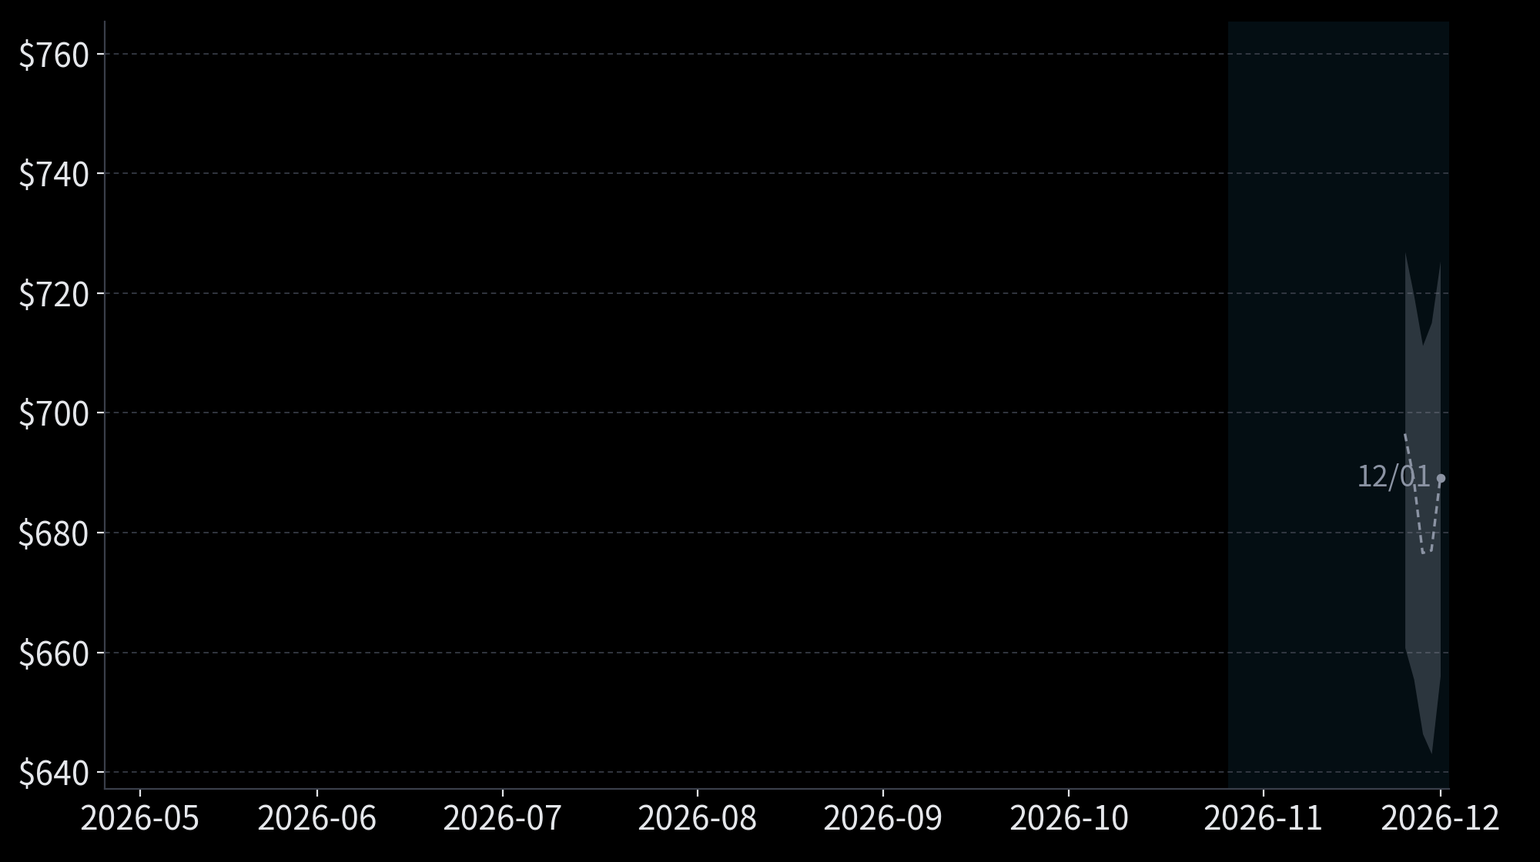
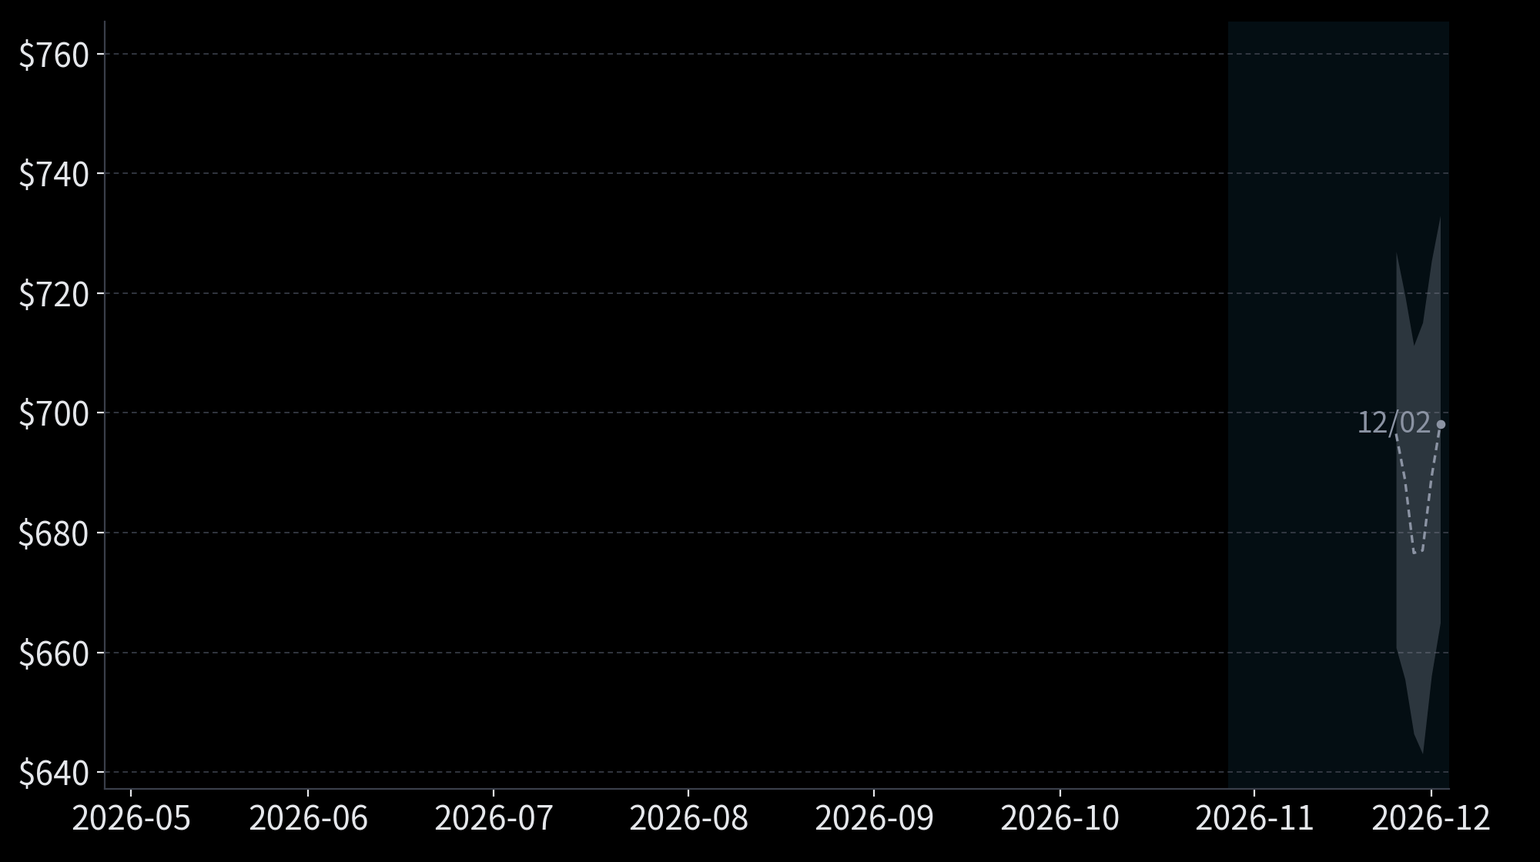
2026-10-29 nasdaq 리포트 공개본

diff --git a/r/20261029-nasdaq/report.html b/r/20261029-nasdaq/report.html
@@ -1,0 +1,116 @@
+<h2 id="1개월-지수-방향-예측">1개월 지수 방향 예측</h2>
+<p><img src="r/20261029-nasdaq/chart-nasdaq.png?v=d43c0dbb70" /></p>
+<p><img src="r/20261029-nasdaq/predict-nasdaq.png?v=1c00ff8d41" /></p>
+<h3 id="현재-상태-투자자는-빅테크-실적에서-클라우드-성장보다-현금-회수를-보고-종목을-골라-사고판다"><mark>현재 상태</mark> 투자자는 빅테크 실적에서 클라우드 성장보다 현금 회수를 보고 종목을 골라 사고판다</h3>
+<p>10월 28일 장 마감 뒤 마이크로소프트와 알파벳이 3분기 실적을 냈고 두 회사의 주가는 반대로 움직였다. 마이크로소프트의 클라우드 서비스 Azure는 매출이 48% 늘었다. 마이크로소프트는 잉여현금흐름도 흑자를 지켰고 시간외 주가는 4% 올랐다. 알파벳의 클라우드 매출은 두 배 넘게 늘었다. 그러나 검색 광고 매출 증가율은 시장 예상보다 낮았고 분기 잉여현금흐름은 적자였다. 경영진이 내년 설비투자를 크게 늘리겠다고 밝히자 알파벳 주가는 시간외에서 10% 넘게 내렸다. 같은 날 연준은 기준금리를 동결했지만 두 위원이 인상을 주장했다. 10년물 국채 수익률은 5%를 넘어 주식의 기대수익보다 높다. 그래서 이익 추정치가 올라도 주가가 크게 오르기는 어렵다.</p>
+<h3 id="주요-분기와-예측-아마존-실적과-선거-뒤-대이란-공격-여부에-따라-이번-달-주가가-달라진다"><mark>주요 분기와 예측</mark> 아마존 실적과 선거 뒤 대이란 공격 여부에 따라 이번 달 주가가 달라진다</h3>
+<p>앞으로 한 달 동안 세 가지 사안이 중요하다. 아마존이 오늘 장 마감 뒤 실적을 발표한다. 아마존 클라우드 사업 AWS의 성장률은 시장 예상과 비슷하게 나올 가능성이 높다. 다만 아마존의 잉여현금흐름 적자가 알파벳처럼 커지면 투자자는 아마존 주식도 판다. 미국이 11월 3일 중간선거 뒤 이란을 공격하는지도 중요하다. 월스트리트저널의 보도에 따르면 미국이 걸프 국가들에 선거 뒤 짧고 강한 작전에 대비하라고 알렸다. AI 데이터센터를 빌려주는 기업의 부채에 대한 불안이 시장 전체로 커지는지도 중요하다. 위험 회사채 시장 전체의 신용 프리미엄이 아직 낮으므로 그럴 가능성은 낮다.</p>
+<h3 id="지수-영향-하락-시나리오의-가능성이-가장-높고-어제보다-하락은-늘고-큰-하락은-줄었다"><mark>지수 영향</mark> 하락 시나리오의 가능성이 가장 높고, 어제보다 하락은 늘고 큰 하락은 줄었다</h3>
+<p>하락 시나리오의 가능성이 가장 높고 횡보 시나리오의 가능성이 그다음으로 높다. 알파벳 실적 때문에 투자자가 주식을 며칠 더 팔고 아마존도 잉여현금흐름 적자를 크게 내면 하락 시나리오의 가능성이 커진다. 반대로 아마존의 클라우드 성장이 현금 부담을 상쇄하면 횡보 시나리오의 가능성이 커진다. 알파벳 하락이 과거 한 기업만의 실적 충격 때처럼 일주일 남짓 뒤 회복되기 때문이다. 선거 뒤 대이란 공격이 재개되면 큰 하락 시나리오의 가능성이 커진다. AI 기업의 부채에 대한 불안이 위험 회사채 시장 전체로 커져도 큰 하락 시나리오의 가능성이 커진다. 어제와 견주면 하락 시나리오의 가능성이 커지고 큰 하락 시나리오의 가능성은 줄었다. 투자자가 어제까지 걱정한 알파벳의 실적 충격은 시간외 가격에 이미 반영됐고, 위험 회사채 시장 전체의 신용 프리미엄도 지난주보다 낮아졌다.</p>
+<h2 id="주요-이슈-해설">주요 이슈 해설</h2>
+<h3 id="1-빅테크-실적과-현금-회수-양방향-중요도-높음">1. 빅테크 실적과 현금 회수 <code>양방향</code> <code>중요도 높음</code></h3>
+<p><mark>현재 상태</mark> 마이크로소프트는 다음 분기 Azure 성장률을 49~50%로 제시해 StreetAccount 집계 시장 예상 45.1%를 넘었다. CNBC에 따르면 마이크로소프트의 잉여현금흐름은 1년 전보다 27% 줄었지만 흑자를 지켰고, 시간외 주가는 4% 올랐다. 알파벳의 클라우드 매출은 103% 늘었다. 그러나 검색 광고 매출 증가율은 12%로 둔화했다. 로이터에 따르면 알파벳 경영진은 검색 광고 둔화를 AI 챗봇 검색의 사용 증가 탓으로 돌렸다. 알파벳은 분기 잉여현금흐름 적자를 냈고 내년 설비투자를 크게 늘리겠다고 밝혔다. 알파벳 주가는 시간외에서 10% 넘게 내렸지만, 같은 날 반도체 ETF는 정규장에서 약 2% 올랐다. 오늘 아침까지 나온 애널리스트 해석도 알파벳 고유의 문제로 보는 쪽이 많았다.</p>
+<p><mark>주요 분기와 예측</mark> 아마존 실적은 시장 예상에 부합할 가능성이 가장 높다. Zacks 집계에 따르면 AWS 매출 성장률 컨센서스는 37.5%다. AWS 성장률이 42%를 넘으면 투자자는 기술주를 산다. 클라우드 매출 증가가 설비투자의 현금 부담을 상쇄한다고 보기 때문이다. 반대로 AWS 성장률이 37%에 못 미치거나 아마존의 잉여현금흐름 적자가 커질 수 있다. 그러면 투자자는 현금을 늦게 회수하는 플랫폼 기업을 함께 판다.</p>
+<p><mark>지수 영향</mark> 알파벳의 시간외 하락은 오늘 아침 가격에 이미 반영됐다. 매도는 며칠 더 이어지다가 멈출 가능성이 높다. 2023년 10월 알파벳이 클라우드 매출 미달 때문에 급락했을 때 나스닥100은 이튿날 가장 많이 내렸고, 8거래일 만에 실적 발표 전 수준을 넘었다. 마이크로소프트의 높은 Azure 성장 지침 덕분에 AI 수요에 대한 우려가 줄어 이번 달 후반에 반등할 가능성은 높아졌다. 다만 메타와 소프트웨어 주식도 알파벳을 따라 내리면 하락이 알파벳 한 회사의 일로 끝나지 않으므로 더 길어진다. 2026년 1월 마이크로소프트 급락 때 나스닥100은 2주 동안 실적 발표 전 수준을 회복하지 못했다.</p>
+<h3 id="2-추세추종-펀드의-기계적-매도-하락-요인-중요도-높음">2. 추세추종 펀드의 기계적 매도 <code>하락 요인</code> <code>중요도 높음</code></h3>
+<p><mark>현재 상태</mark> 추세추종 펀드(CTA)는 가격 추세에 따라 선물을 자동으로 사고파는 펀드다. 골드만삭스 자료에 따르면 CTA는 최근 3거래일 동안 나스닥100 선물을 약 30억 달러 팔았고, 이는 2025년 3월 이후 가장 큰 3일 매도였다. 뱅크오브아메리카는 10월 26일 CTA의 다음 매도 기준을 나스닥100 선물 현재 수준보다 0.2% 아래로 추정했다. 알파벳 실적 뒤 나스닥100 선물이 1% 넘게 내려 그 매도 기준과 가까워졌다. QQQ에서는 지난 5거래일 동안 자금이 빠져나갔고 Fear &amp; Greed Index는 공포 구간이다. 다만 VIX가 17 안팎으로 낮아 투자자가 아직 급하게 위험을 줄이지는 않는다.</p>
+<p><mark>주요 분기와 예측</mark> 주가가 더 내리면 CTA가 선물을 더 팔 가능성이 높다. 체계적 전략은 CTA와 변동성 목표 펀드처럼 정해진 규칙에 따라 주식 비중을 바꾸는 전략이다. 뱅크오브아메리카의 추정에 따르면 체계적 전략은 다음 주 주식을 하락장에서 790억 달러, 보합장에서 480억 달러 판다. 나스닥100이 이번 주 정규장에서 시간외 하락분을 회복하면 매도 기준에서 멀어진다.</p>
+<p><mark>지수 영향</mark> 주가가 한 번 더 내리면 CTA의 기계적 매도 때문에 하락 폭이 커진다. 다만 CTA가 이미 선물을 크게 팔았으므로 남은 매도 물량은 10월 중순보다 적다. 10월 22일 매도 뒤 나스닥100은 4거래일 동안 저점에서 3% 가까이 반등했다. 주가가 크게 떨어지면 매도를 마친 투자자가 다시 사들인다. 그래서 하락 폭이 줄어든다.</p>
+<h3 id="3-선거-뒤-미국의-대이란-재공격-양방향-중요도-높음">3. 선거 뒤 미국의 대이란 재공격 <code>양방향</code> <code>중요도 높음</code></h3>
+<p><mark>현재 상태</mark> 백악관은 11월 3일 중간선거 전에는 이란을 공격하지 않겠다고 서면으로 밝혔다. 월스트리트저널의 보도에 따르면 미국이 선거 뒤 걸프 국가들에 짧고 강한 군사작전을 준비하라고 알렸다. 백악관은 이 보도를 확인도 부인도 하지 않았다. Axios에 따르면 미국과 이스라엘은 최대 일주일 동안의 작전을 준비한다. 협상을 이어 가려는 움직임도 있다. 사우디아라비아는 트럼프 대통령에게 협상 시간을 더 달라고 요청했고, 이란 외무장관은 호르무즈 해협 재개방 계획을 더 빨리 이행할 방안을 검토한다고 밝혔다. 브렌트유는 배럴당 110달러 안팎으로 높지만 5년 기대 인플레이션은 평상시 범위에 있다.</p>
+<p><mark>주요 분기와 예측</mark> 선거 뒤 이번 달 안에 공격이 재개될 가능성은 공격이 없을 가능성보다 낮다. 공격이 재개되면 유가만 오를 가능성이 높다. 금리가 오르고 하이일드 채권 스프레드가 벌어질 가능성은 그보다 낮다. 미국이 이란의 재개방 제안을 받아들이거나 협상 재개를 공식화하면 공격 가능성은 낮아진다.</p>
+<p><mark>지수 영향</mark> 공격이 재개되면 유가가 오른다. 투자자는 물가와 금리의 상승을 예상해 성장주를 판다. 2026년 2월 말 이란 공습 때는 4주 동안 주가가 거의 반응하지 않았다. 3월 말 브렌트유가 배럴당 100달러를 넘자 나스닥100은 2월 초보다 9% 넘게 하락했고, 4월 8일 휴전 뒤 일주일 만에 사상 최고치를 회복했다. 공격이 없는 날에는 유가의 위험 프리미엄이 줄어든다. 그래서 주가가 조금씩 오른다.</p>
+<h3 id="4-ai-인프라-기업의-부채에-대한-불안-하락-요인-중요도-높음">4. AI 인프라 기업의 부채에 대한 불안 <code>하락 요인</code> <code>중요도 높음</code></h3>
+<p><mark>현재 상태</mark> AI 인프라 기업은 AI 데이터센터를 짓거나 빌려주려고 빚을 내는 코어위브·오라클 같은 기업이다. 코어위브는 AI 데이터센터를 빌려주는 기업이다. 오라클은 투자적격 등급 가운데 가장 낮은 등급을 받은 클라우드 기업이다. 코어위브의 부도 위험에 대한 보험료는 10월 중순 사상 최고로 올랐고, 오라클의 보험료도 연초의 두 배를 넘었다. 알파벳의 장기부채는 1년 사이 약 6배로 늘었다. 워시 연준 의장도 금리 때문에 AI 인프라 투자가 영향을 받았고 일부 신용 스프레드가 벌어졌다고 말했다. 다만 위험 회사채 시장 전체의 신용 프리미엄(하이일드 채권 스프레드)이 지난주보다 낮아져 3월 고점보다 낮으므로, 투자자가 코어위브와 오라클 밖의 회사채까지 위험하게 보지는 않는다. CNBC에 따르면 CreditSights는 빅테크의 실적 발표 전후 대규모 채권 발행을 예상하지 않았다.</p>
+<p><mark>주요 분기와 예측</mark> 투자자가 AI 인프라 기업의 채권만 위험하게 볼 가능성이 높다. 코어위브는 10월 28일부터 주식 발행 자금으로 대출 조건을 맞추는 방법을 제한적으로만 쓸 수 있다. 그래서 11월 코어위브 실적 발표가 중요하다. 위험 회사채 시장 전체의 신용 프리미엄이 3월 고점을 넘고 투자적격 회사채 스프레드도 함께 벌어지면 부채에 대한 불안은 시장 전체의 신용 위기로 커진다.</p>
+<p><mark>지수 영향</mark> 투자자가 AI 인프라 기업의 채권만 위험하게 보면 지수 하락 폭은 작다. 반도체와 클라우드 주식만 하락하기 때문이다. 그 기업들의 부채에 대한 불안이 위험 회사채 시장 전체로 커지면 기업은 AI 설비투자 자금을 구하기 어려워진다. 투자자가 반도체 수요에 대한 기대를 낮추면서 지수가 크게 하락한다. 2007년 8월 유럽 펀드가 환매를 중단하면서 신용 경색이 시작됐을 때 나스닥100은 연준의 유동성 공급에도 일주일 동안 더 하락해 6월 말보다 10% 낮아졌다. 지금은 빅테크가 채권 대신 주식으로 자금을 구하므로 위험 회사채 시장 전체의 신용 프리미엄은 천천히 오른다.</p>
+<h3 id="검토했지만-비중을-낮춘-이슈">검토했지만 비중을 낮춘 이슈</h3>
+<ul>
+<li><strong>9월 개인소비지출(PCE) 물가</strong>: 근원 물가 상승률이 시장 예상 0.3%에 가깝게 나올 가능성이 높다. 시장이 이미 12월 인상을 예상하므로 예상보다 높게 나와도 주가 반응은 작다.</li>
+<li><strong>미국 중간선거 결과</strong>: 예측시장은 민주당의 상·하원 장악을 가장 유력하게 본다. 시장이 이미 예상한 결과라 발표 뒤 주가가 크게 움직이지 않는다.</li>
+<li><strong>10월 소비자물가와 10월 고용보고서</strong>: 물가 예측치가 낮은 쪽에 모여 있고 고용은 완만하게 둔화할 가능성이 높다. 시장이 이미 12월 인상을 예상하므로 두 지표는 다음 해 금리 경로만 조금 바꾼다.</li>
+<li><strong>오라클 투자자의 날</strong>: 오라클이 잉여현금흐름의 흑자 전환 시기를 밝혀 자사 부채에 대한 불안을 줄였다. 오라클은 나스닥100 구성 종목이 아니어서 지수로 전달되는 경로가 약하다.</li>
+<li><strong>SK하이닉스 3분기 실적</strong>: 영업이익이 시장 예상보다 10% 가까이 많았다. 메모리 수요가 2030년까지 공급을 넘는다는 전망도 내놓았다. 마이크론 실적은 12월 중순에 나오므로 이번 달 지수에는 반도체 수요 기대로만 전달된다.</li>
+<li><strong>메타의 주식 조달</strong>: 메타가 950억 달러 규모의 주식 조달 계획을 내자 메타의 부도 위험에 대한 보험료가 내렸다. 새 주식은 천천히 시장에 나오므로 이번 달 주식 공급을 크게 늘리지 않는다.</li>
+</ul>
+<h2 id="다가오는-이벤트">다가오는 이벤트</h2>
+<h3 id="1028수-장중-fomc-중요도-보통" data-day="2026-10-28" data-level="mid"><span class="when">10/29(목) 03:00 KST</span>FOMC <code>중요도 보통</code></h3>
+<table class="events judged">
+<thead><tr><th>분기</th><th>확률</th><th>전개 예상</th></tr></thead>
+<tbody>
+<tr><td class="branch">동결·추가 인상 거리두기</td><td class="chance">19%</td><td>연준이 추가 인상에 거리를 두면 금리 인상에 대한 부담이 줄어 주가가 오른다</td></tr>
+<tr class="hit"><td class="branch">동결·12월 인상 신호 유지</td><td class="chance">75%</td><td>시장이 이미 예상한 결과라 발표 뒤 주가가 크게 움직이지 않는다 <span class="outcome">→ 연준이 10/28 기준금리를 3.75~4.00%로 동결했고 쿡·해맥 두 위원이 인상을 주장하며 반대했다. 워시 의장은 12월 인상을 확정하지도 부인하지도 않았고, 12월 인상 확률은 하루 전 78%에서 85% 안팎으로 올랐다.</span></td></tr>
+<tr><td class="branch">인상 또는 연속 인상 경로 확인</td><td class="chance">6%</td><td>할인율이 오른다는 우려 때문에 성장주가 하락한다</td></tr>
+</tbody>
+</table>
+<h3 id="1028수-장후-마이크로소프트-회계-1분기-실적-중요도-보통" data-day="2026-10-28" data-level="mid"><span class="when">장후</span>마이크로소프트 회계 1분기 실적 <code>중요도 보통</code></h3>
+<table class="events judged">
+<thead><tr><th>분기</th><th>확률</th><th>전개 예상</th></tr></thead>
+<tbody>
+<tr class="hit"><td class="branch">Azure 47% 이상·EPS 위스퍼 상회</td><td class="chance">30%</td><td>투자자가 클라우드 수요를 설비투자의 근거로 해석해 주식을 사들이면서 주가가 오른다 <span class="outcome">→ 마이크로소프트의 Azure 매출이 48% 늘었고, 다음 분기 Azure 성장률 지침 49~50%는 시장 예상 45.1%를 넘었다. 조정 EPS 4.89달러는 시장 예상보다 높았으나 위스퍼 4.93달러에는 조금 못 미쳤고, 시간외 주가는 3~4% 올랐다.</span></td></tr>
+<tr><td class="branch">Azure 45~46% 기대 부합</td><td class="chance">47%</td><td>시장 예상과 같아 주가가 크게 움직이지 않는다</td></tr>
+<tr><td class="branch">Azure 44% 이하 또는 자본지출 급증·현금흐름 악화</td><td class="chance">23%</td><td>현금 회수에 대한 의심이 커져 기술주가 하락한다</td></tr>
+</tbody>
+</table>
+<h3 id="1028수-장후-알파벳-3분기-실적-중요도-높음" data-day="2026-10-28" data-level="high"><span class="when">장후</span>알파벳 3분기 실적 <code>중요도 높음</code></h3>
+<table class="events judged">
+<thead><tr><th>분기</th><th>확률</th><th>전개 예상</th></tr></thead>
+<tbody>
+<tr><td class="branch">클라우드 컨센서스(92%) 상회에 자본지출 범위 유지</td><td class="chance">25%</td><td>설비투자 부담에 대한 우려가 줄어 주가가 오른다</td></tr>
+<tr><td class="branch">자본지출 상향·잉여현금흐름 적자로 매도</td><td class="chance">47%</td><td>메타처럼 잉여현금흐름 적자 때문에 주가가 하락하지만 시장이 이미 일부 예상한 결과라 하락 폭은 작다</td></tr>
+<tr class="hit"><td class="branch">클라우드 기대 미달 또는 2027년 자본지출 급증 예고</td><td class="chance">28%</td><td>현금 회수에 대한 의심 때문에 반도체주까지 함께 하락한다 <span class="outcome">→ 알파벳의 클라우드 매출은 103% 늘어 시장 예상을 넘었지만 검색 매출 성장은 12%로 둔화했다. 잉여현금흐름이 -90.7억 달러였고 경영진은 2027년 자본지출의 큰 폭 증가를 예고했다. 시간외에서 알파벳 주가는 약 10% 내렸고 QQQ도 1.18% 내렸다.</span></td></tr>
+</tbody>
+</table>
+<p><img src="r/20261029-nasdaq/tree-nasdaq.png?v=e866df105a" /></p>
+<h3 id="1029목-장전-9월-pce-물가-중요도-보통" data-day="2026-10-29" data-level="mid"><span class="when">10/29(목) 21:30 KST</span>9월 PCE 물가 <code>중요도 보통</code></h3>
+<table class="events">
+<thead><tr><th>분기</th><th>확률</th><th>전개 예상</th></tr></thead>
+<tbody>
+<tr><td class="branch">근원 0.25% 이하</td><td class="chance">7%<br><small class="delta flat">–</small></td><td>12월 인상 뒤 추가 인상 기대가 줄어 주가가 오른다</td></tr>
+<tr><td class="branch">근원 0.26~0.34%</td><td class="chance">65%<br><small class="delta down">▼1%p</small></td><td>시장이 예상한 결과라 주가가 크게 움직이지 않는다</td></tr>
+<tr><td class="branch">근원 0.35% 이상</td><td class="chance">28%<br><small class="delta up">▲1%p</small></td><td>다음 해 인상 기대가 커져 주가가 조금 하락한다</td></tr>
+</tbody>
+</table>
+<h3 id="1029목-장후-아마존-3분기-실적-중요도-높음" data-day="2026-10-29" data-level="high"><span class="when">장후</span>아마존 3분기 실적 <code>중요도 높음</code></h3>
+<table class="events">
+<thead><tr><th>분기</th><th>확률</th><th>전개 예상</th></tr></thead>
+<tbody>
+<tr><td class="branch">매출 2,030억 달러 이상·AWS 42% 이상</td><td class="chance">25%<br><small class="delta down">▼5%p</small></td><td>클라우드 수요가 현금 부담을 상쇄한다는 해석 때문에 기술주가 오른다</td></tr>
+<tr><td class="branch">기대 부합</td><td class="chance">47%<br><small class="delta up">▲2%p</small></td><td>주가가 크게 움직이지 않고, 알파벳 실적 때문에 투자자가 주식을 조금 더 판다</td></tr>
+<tr><td class="branch">가이던스 상단 미달 또는 AWS 37% 미만</td><td class="chance">28%<br><small class="delta up">▲3%p</small></td><td>현금 회수에 대한 의심이 커져 기술주가 함께 하락한다</td></tr>
+</tbody>
+</table>
+<h3 id="1029목-장후-일본은행-금융정책결정회합-중요도-낮음" data-day="2026-10-29" data-level="low"><span class="when">10/30(금) 12:00 KST</span>일본은행 금융정책결정회합 <code>중요도 낮음</code></h3>
+<table class="events">
+<thead><tr><th>분기</th><th>확률</th><th>전개 예상</th></tr></thead>
+<tbody>
+<tr><td class="branch">동결</td><td class="chance">96%<br><small class="delta down">▼1%p</small></td><td>시장이 예상한 결과라 주가가 크게 움직이지 않는다</td></tr>
+<tr><td class="branch">인상과 엔화 급등</td><td class="chance">4%<br><small class="delta up">▲1%p</small></td><td>엔화로 돈을 빌려 투자한 자금이 청산되면서 기술주가 크게 하락한다</td></tr>
+</tbody>
+</table>
+<h3 id="1102월-장후-애플-회계-4분기-실적-중요도-낮음" data-day="2026-11-02" data-level="low"><span class="when">11/03(화) 06:30 KST</span>애플 회계 4분기 실적 <code>중요도 낮음</code></h3>
+<table class="events">
+<thead><tr><th>분기</th><th>확률</th><th>전개 예상</th></tr></thead>
+<tbody>
+<tr><td class="branch">12월분기 가이던스 실망</td><td class="chance">47%<br><small class="delta down">▼1%p</small></td><td>연말 아이폰 판매에 대한 기대가 줄어 주가가 조금 하락한다</td></tr>
+<tr><td class="branch">가이던스 부합·상회</td><td class="chance">53%<br><small class="delta up">▲1%p</small></td><td>기대가 이미 낮아 주가가 조금 오른다</td></tr>
+</tbody>
+</table>
+<h3 id="1103화-장후-미국-중간선거-중요도-보통" data-day="2026-11-03" data-level="mid"><span class="when">11/04(수) 10:00 KST</span>미국 중간선거 <code>중요도 보통</code></h3>
+<table class="events">
+<thead><tr><th>분기</th><th>확률</th><th>전개 예상</th></tr></thead>
+<tbody>
+<tr><td class="branch">민주당 양원 장악</td><td class="chance">62%<br><small class="delta down">▼2%p</small></td><td>규제와 세금이 늘어날 수 있다는 우려 때문에 기술주가 조금 하락한다</td></tr>
+<tr><td class="branch">민주 하원·공화 상원 분할</td><td class="chance">31%<br><small class="delta up">▲3%p</small></td><td>투자자가 정책이 크게 바뀌지 않는다고 보아 기술주가 오른다</td></tr>
+<tr><td class="branch">공화당 양원 유지</td><td class="chance">7%<br><small class="delta down">▼1%p</small></td><td>재정 지출 확대를 기대한 투자자의 매수와 장기금리 상승을 우려한 투자자의 매도가 비슷해 주가가 크게 움직이지 않는다</td></tr>
+</tbody>
+</table>
+<h3 id="1104수-장전-재무부-4분기-자금조달-계획-중요도-낮음" data-day="2026-11-04" data-level="low"><span class="when">11/04(수) 22:30 KST</span>재무부 4분기 자금조달 계획 <code>중요도 낮음</code></h3>
+<table class="events">
+<thead><tr><th>분기</th><th>확률</th><th>전개 예상</th></tr></thead>
+<tbody>
+<tr><td class="branch">20·30년물 발행 축소</td><td class="chance">30%<br><small class="delta flat">–</small></td><td>장기금리가 내려 주가가 조금 오른다</td></tr>
+<tr><td class="branch">쿠폰 규모 유지(장기 바이백 확대 포함)</td><td class="chance">62%<br><small class="delta flat">–</small></td><td>시장이 예상한 결과라 주가가 크게 움직이지 않는다</td></tr>
+<tr><td class="branch">유지 문구 삭제·장기물 증액 신호</td><td class="chance">8%<br><small class="delta flat">–</small></td><td>장기금리가 올라 성장주 주가가 하락한다</td></tr>
+</tbody>
+</table>
